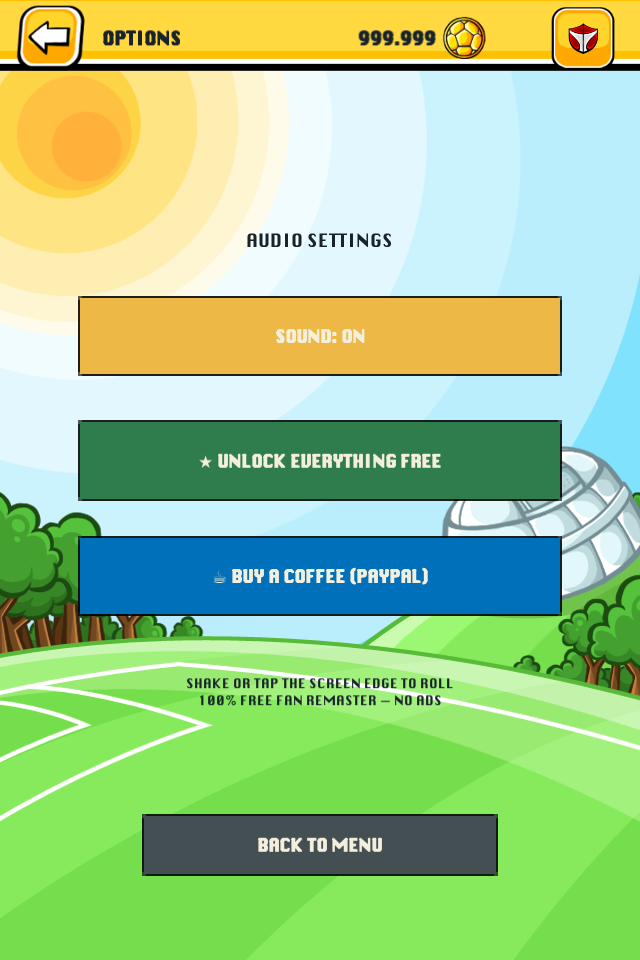
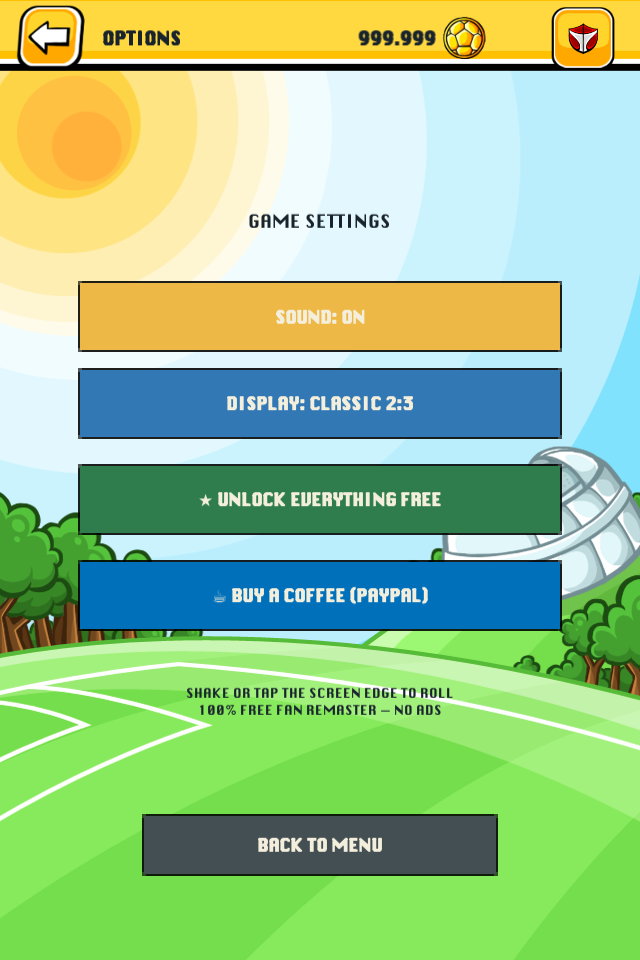
Fix PAIR animation bug, enlarge and center SHAKE prompt, calibrate player proportions and add full-screen display toggle

Changed region(s): [[0.125, 0.2188, 0.875, 0.6562], [0.2812, 0.6875, 0.7188, 0.75]]

diff --git a/Assets/Scripts/DiceSoccerBootstrap.cs b/Assets/Scripts/DiceSoccerBootstrap.cs
@@ -41,6 +41,8 @@ namespace DiceSoccer
         private GameObject[] _awayDieRoots;
         private Image[] _homePlayers;
         private Image[] _awayPlayers;
+        private float[] _homePlayerScales;
+        private float[] _awayPlayerScales;
         private Image _ballMarker;
         private Transform _field;
         private RectTransform _fieldPitchRoot;
@@ -158,9 +160,15 @@ namespace DiceSoccer
                 for (var i = 0; i < _homePlayers.Length; i++)
                 {
                     if (_homePlayers[i] != null && _homePlayers[i].gameObject.activeSelf)
-                        _homePlayers[i].rectTransform.localScale = new Vector3(-1f, bob, 1f); // Home faces right towards opponent
+                    {
+                        float baseScale = (_homePlayerScales != null && i < _homePlayerScales.Length) ? _homePlayerScales[i] : 1f;
+                        _homePlayers[i].rectTransform.localScale = new Vector3(-baseScale, baseScale * bob, 1f); // Home faces right towards opponent
+                    }
                     if (_awayPlayers[i] != null && _awayPlayers[i].gameObject.activeSelf)
-                        _awayPlayers[i].rectTransform.localScale = new Vector3(1f, bob, 1f); // Away faces left towards home
+                    {
+                        float baseScale = (_awayPlayerScales != null && i < _awayPlayerScales.Length) ? _awayPlayerScales[i] : 1f;
+                        _awayPlayers[i].rectTransform.localScale = new Vector3(baseScale, baseScale * bob, 1f); // Away faces left towards home
+                    }
                 }
             }
 
@@ -338,26 +346,39 @@ namespace DiceSoccer
             AddMenuBackdrop();
             AddMenuHeader("OPTIONS", ShowHome);
 
-            AddText("AUDIO SETTINGS", _safeArea, 18, Ink,
-                new Vector2(0.1f, 0.72f), new Vector2(0.9f, 0.78f));
+            AddText("GAME SETTINGS", _safeArea, 18, Ink,
+                new Vector2(0.1f, 0.74f), new Vector2(0.9f, 0.80f));
             AddButton(_soundEnabled ? "SOUND: ON" : "SOUND: OFF", _safeArea, Gold,
-                new Vector2(0.5f, 0.65f), new Vector2(0.75f, 0.08f), ToggleSound);
+                new Vector2(0.5f, 0.67f), new Vector2(0.75f, 0.07f), ToggleSound);
+
+            bool fullScreen = PlayerPrefs.GetInt("diceSoccer.fullscreen", 0) == 1;
+            AddButton(fullScreen ? "DISPLAY: FILL SCREEN" : "DISPLAY: CLASSIC 2:3", _safeArea, new Color32(50, 120, 180, 255),
+                new Vector2(0.5f, 0.58f), new Vector2(0.75f, 0.07f), ToggleDisplayMode);
 
             AddButton("★ UNLOCK EVERYTHING FREE", _safeArea, Grass,
-                new Vector2(0.5f, 0.52f), new Vector2(0.75f, 0.08f), () =>
+                new Vector2(0.5f, 0.48f), new Vector2(0.75f, 0.07f), () =>
                 {
                     UnlockAllContent(false);
                     ShowDonationModal();
                 });
 
             AddButton("☕ BUY A COFFEE (PAYPAL)", _safeArea, new Color32(0, 112, 186, 255),
-                new Vector2(0.5f, 0.40f), new Vector2(0.75f, 0.08f), ShowDonationModal);
+                new Vector2(0.5f, 0.38f), new Vector2(0.75f, 0.07f), ShowDonationModal);
 
             AddText("SHAKE OR TAP THE SCREEN EDGE TO ROLL\n100% FREE FAN REMASTER — NO ADS",
-                _safeArea, 13, Ink, new Vector2(0.08f, 0.22f), new Vector2(0.92f, 0.34f));
+                _safeArea, 13, Ink, new Vector2(0.08f, 0.22f), new Vector2(0.92f, 0.32f));
 
             AddButton("BACK TO MENU", _safeArea, new Color32(68, 79, 84, 255),
                 new Vector2(0.5f, 0.12f), new Vector2(0.55f, 0.06f), ShowHome);
+        }
+
+        private void ToggleDisplayMode()
+        {
+            int current = PlayerPrefs.GetInt("diceSoccer.fullscreen", 0);
+            PlayerPrefs.SetInt("diceSoccer.fullscreen", current == 1 ? 0 : 1);
+            PlayerPrefs.Save();
+            ApplySafeArea();
+            ShowOptions();
         }
 
         private void ToggleSound()
@@ -944,8 +965,12 @@ namespace DiceSoccer
             _fieldPitchRoot = pitchRootGo.GetComponent<RectTransform>();
             _fieldPitchRoot.anchorMin = new Vector2(0.5f, 0.5f);
             _fieldPitchRoot.anchorMax = new Vector2(0.5f, 0.5f);
-            _fieldPitchRoot.sizeDelta = new Vector2(1920f, 960f);
-            _fieldPitchRoot.anchoredPosition = new Vector2(GetPitchOffsetForLocation(_match.Location), 0f);
+            float fieldPitchHeight = 960f;
+            if (_safeArea != null && _safeArea.rect.height > 960f)
+                fieldPitchHeight = _safeArea.rect.height;
+            float pitchScale = fieldPitchHeight / 960f;
+            _fieldPitchRoot.sizeDelta = new Vector2(1920f * pitchScale, fieldPitchHeight);
+            _fieldPitchRoot.anchoredPosition = new Vector2(GetPitchOffsetForLocation(_match.Location) * pitchScale, 0f);
 
             // Left half of pitch (goal on left, center circle on right):
             var leftFieldGo = new GameObject("FieldLeft", typeof(RectTransform), typeof(Image));
@@ -953,7 +978,7 @@ namespace DiceSoccer
             var leftRect = leftFieldGo.GetComponent<RectTransform>();
             leftRect.anchorMin = leftRect.anchorMax = new Vector2(0.5f, 0.5f);
             leftRect.pivot = new Vector2(1f, 0.5f);
-            leftRect.sizeDelta = new Vector2(960f, 960f);
+            leftRect.sizeDelta = new Vector2(fieldPitchHeight, fieldPitchHeight);
             leftRect.anchoredPosition = Vector2.zero;
             var leftImg = leftFieldGo.GetComponent<Image>();
             leftImg.sprite = GetUiSprite("Original/sprites/Season0Field2(1.1)/Field");
@@ -966,7 +991,7 @@ namespace DiceSoccer
             var rightRect = rightFieldGo.GetComponent<RectTransform>();
             rightRect.anchorMin = rightRect.anchorMax = new Vector2(0.5f, 0.5f);
             rightRect.pivot = new Vector2(1f, 0.5f);
-            rightRect.sizeDelta = new Vector2(960f, 960f);
+            rightRect.sizeDelta = new Vector2(fieldPitchHeight, fieldPitchHeight);
             rightRect.anchoredPosition = Vector2.zero;
             rightRect.localScale = new Vector3(-1f, 1f, 1f);
             var rightImg = rightFieldGo.GetComponent<Image>();
@@ -1093,10 +1118,10 @@ namespace DiceSoccer
             _buffBeltText.fontStyle = FontStyle.Bold;
             _buffBeltGo.SetActive(false);
 
-            // Shake button & prompt above soccer ball:
+            // Shake button & prompt in field center circle:
             _shakePrompt = AddResourceImage("ShakePrompt", "Original/sprites/Prompt1/Shake",
-                _field, new Vector2(0.5f, 0.58f), new Vector2(0.5f, 0.58f));
-            _shakePrompt.rectTransform.sizeDelta = new Vector2(165f, 95f);
+                _field, new Vector2(0.5f, 0.40f), new Vector2(0.5f, 0.40f));
+            _shakePrompt.rectTransform.sizeDelta = new Vector2(360f, 295f);
             _shakePrompt.preserveAspect = true;
             _shakePrompt.raycastTarget = true;
             var shakeBtn = _shakePrompt.gameObject.AddComponent<Button>();
@@ -3315,7 +3340,7 @@ namespace DiceSoccer
             else if (hasPair && _homeDieRoots != null && _homeDieRoots[0] != null)
             {
                 Vector2 burstPos = _homeDieRoots[0].GetComponent<RectTransform>().anchorMin;
-                yield return StartCoroutine(PlayAbilityBurst(burstPos, "Original/sprites/BuffTrigger1/Trigger2", "Pair Boost"));
+                yield return StartCoroutine(PlayAbilityBurst(burstPos, "Original/sprites/BuffTrigger1/Trigger2", null));
                 yield return new WaitForSeconds(0.85f);
             }
             else
@@ -3544,68 +3569,81 @@ namespace DiceSoccer
             containerRect.anchoredPosition = new Vector2(0f, 30f);
             burstContainer.transform.SetAsLastSibling();
 
-            // 1. Ray burst background (TriggerBurst01..09)
-            var rayGo = new GameObject("RayBurst", typeof(RectTransform), typeof(Image));
-            rayGo.transform.SetParent(burstContainer.transform, false);
-            var rayRect = rayGo.GetComponent<RectTransform>();
-            rayRect.sizeDelta = new Vector2(220f, 220f);
-            rayRect.anchoredPosition = Vector2.zero;
-            var rayImg = rayGo.GetComponent<Image>();
-            rayImg.preserveAspect = true;
-            rayImg.raycastTarget = false;
-
-            // 2. Trigger badge (e.g. Trigger21 "3*" or Trigger2 "PAIR!")
-            var badgeGo = new GameObject("TriggerBadge", typeof(RectTransform), typeof(Image));
-            badgeGo.transform.SetParent(burstContainer.transform, false);
-            var badgeRect = badgeGo.GetComponent<RectTransform>();
-            badgeRect.sizeDelta = new Vector2(160f, 130f);
-            badgeRect.anchoredPosition = new Vector2(0f, 10f);
-            var badgeImg = badgeGo.GetComponent<Image>();
-            badgeImg.sprite = GetUiSprite(triggerBadgePath);
-            badgeImg.preserveAspect = true;
-            badgeImg.raycastTarget = false;
-
-            // 3. Ribbon banner (e.g. AbilityName-Critical Striker)
-            Image ribbonImg = null;
-            if (!string.IsNullOrEmpty(abilityName))
+            try
             {
-                var ribbonGo = new GameObject("AbilityRibbon", typeof(RectTransform), typeof(Image));
-                ribbonGo.transform.SetParent(burstContainer.transform, false);
-                var ribbonRect = ribbonGo.GetComponent<RectTransform>();
-                ribbonRect.sizeDelta = new Vector2(240f, 48f);
-                ribbonRect.anchoredPosition = new Vector2(0f, -45f);
-                ribbonImg = ribbonGo.GetComponent<Image>();
-                ribbonImg.sprite = GetUiSprite($"Original/sprites/BuffTrigger/AbilityName-{abilityName}");
-                ribbonImg.preserveAspect = true;
-                ribbonImg.raycastTarget = false;
-            }
+                // 1. Ray burst background (TriggerBurst01..09)
+                var rayGo = new GameObject("RayBurst", typeof(RectTransform), typeof(Image));
+                rayGo.transform.SetParent(burstContainer.transform, false);
+                var rayRect = rayGo.GetComponent<RectTransform>();
+                rayRect.sizeDelta = new Vector2(220f, 220f);
+                rayRect.anchoredPosition = Vector2.zero;
+                var rayImg = rayGo.GetComponent<Image>();
+                rayImg.preserveAspect = true;
+                rayImg.raycastTarget = false;
 
-            // Animate ray burst cycling + badge punch
-            float elapsed = 0f;
-            const float duration = 0.65f;
-            while (elapsed < duration)
-            {
-                elapsed += Time.deltaTime;
-                float t = Mathf.Clamp01(elapsed / duration);
+                // 2. Trigger badge (e.g. Trigger21 "3*" or Trigger2 "PAIR!")
+                var badgeGo = new GameObject("TriggerBadge", typeof(RectTransform), typeof(Image));
+                badgeGo.transform.SetParent(burstContainer.transform, false);
+                var badgeRect = badgeGo.GetComponent<RectTransform>();
+                badgeRect.sizeDelta = new Vector2(160f, 130f);
+                badgeRect.anchoredPosition = new Vector2(0f, 10f);
+                var badgeImg = badgeGo.GetComponent<Image>();
+                var badgeSprite = TryGetUiSprite(triggerBadgePath);
+                if (badgeSprite != null) badgeImg.sprite = badgeSprite;
+                badgeImg.preserveAspect = true;
+                badgeImg.raycastTarget = false;
 
-                // Ray burst animation frames (TriggerBurst01..09)
-                int burstFrame = Mathf.Clamp((int)(t * 9f) + 1, 1, 9);
-                rayImg.sprite = GetUiSprite($"Original/sprites/BuffTrigger/TriggerBurst{burstFrame:00}");
-
-                // Badge scale punch
-                float badgeScale = 1f + Mathf.Sin(t * Mathf.PI) * 0.28f;
-                badgeRect.localScale = new Vector3(badgeScale, badgeScale, 1f);
-
-                if (ribbonImg != null)
+                // 3. Ribbon banner (e.g. AbilityName-Critical Striker)
+                Image ribbonImg = null;
+                if (!string.IsNullOrEmpty(abilityName))
                 {
-                    float ribbonScale = Mathf.Clamp01(t * 3f);
-                    ribbonImg.rectTransform.localScale = new Vector3(ribbonScale, ribbonScale, 1f);
+                    var ribbonSprite = TryGetUiSprite($"Original/sprites/BuffTrigger/AbilityName-{abilityName}")
+                                    ?? TryGetUiSprite($"Original/sprites/BuffTrigger1/AbilityName-{abilityName}");
+                    if (ribbonSprite != null)
+                    {
+                        var ribbonGo = new GameObject("AbilityRibbon", typeof(RectTransform), typeof(Image));
+                        ribbonGo.transform.SetParent(burstContainer.transform, false);
+                        var ribbonRect = ribbonGo.GetComponent<RectTransform>();
+                        ribbonRect.sizeDelta = new Vector2(240f, 48f);
+                        ribbonRect.anchoredPosition = new Vector2(0f, -45f);
+                        ribbonImg = ribbonGo.GetComponent<Image>();
+                        ribbonImg.sprite = ribbonSprite;
+                        ribbonImg.preserveAspect = true;
+                        ribbonImg.raycastTarget = false;
+                    }
                 }
 
-                yield return null;
-            }
+                // Animate ray burst cycling + badge punch
+                float elapsed = 0f;
+                const float duration = 0.65f;
+                while (elapsed < duration)
+                {
+                    elapsed += Time.deltaTime;
+                    float t = Mathf.Clamp01(elapsed / duration);
 
-            Destroy(burstContainer);
+                    // Ray burst animation frames (TriggerBurst01..09)
+                    int burstFrame = Mathf.Clamp((int)(t * 9f) + 1, 1, 9);
+                    var bSprite = TryGetUiSprite($"Original/sprites/BuffTrigger/TriggerBurst{burstFrame:00}");
+                    if (bSprite != null) rayImg.sprite = bSprite;
+
+                    // Badge scale punch
+                    float badgeScale = 1f + Mathf.Sin(t * Mathf.PI) * 0.28f;
+                    badgeRect.localScale = new Vector3(badgeScale, badgeScale, 1f);
+
+                    if (ribbonImg != null)
+                    {
+                        float ribbonScale = Mathf.Clamp01(t * 3f);
+                        ribbonImg.rectTransform.localScale = new Vector3(ribbonScale, ribbonScale, 1f);
+                    }
+
+                    yield return null;
+                }
+            }
+            finally
+            {
+                if (burstContainer != null)
+                    Destroy(burstContainer);
+            }
         }
 
         private IEnumerator PlayGoalAnimation(bool homeScored)
@@ -4851,8 +4889,10 @@ namespace DiceSoccer
 
         private IEnumerator SmoothShiftFieldAndBall(int fromLoc, int toLoc, int possession)
         {
-            var startPitchX = GetPitchOffsetForLocation(fromLoc);
-            var targetPitchX = GetPitchOffsetForLocation(toLoc);
+            float pitchScale = (_fieldPitchRoot != null && _fieldPitchRoot.sizeDelta.y > 960f)
+                ? _fieldPitchRoot.sizeDelta.y / 960f : 1f;
+            var startPitchX = GetPitchOffsetForLocation(fromLoc) * pitchScale;
+            var targetPitchX = GetPitchOffsetForLocation(toLoc) * pitchScale;
             var startBallPos = _ballMarker != null ? _ballMarker.rectTransform.anchorMin : GetBallPosition(fromLoc, possession);
             var targetBallPos = GetBallPosition(toLoc, possession, _match != null ? _match.BallHolderSlotIndex : 1);
             var elapsed = 0f;
@@ -5049,7 +5089,7 @@ namespace DiceSoccer
                 _ => 0.395f
             };
 
-            float x = possession == 0 ? 0.435f : 0.565f;
+            float x = possession == 0 ? 0.365f : 0.645f;
             return new Vector2(x, y);
         }
 
@@ -5130,6 +5170,7 @@ namespace DiceSoccer
         private Image[] AddFormationPlayers(PlayerData[] lineup, Transform parent, bool home)
         {
             var players = new Image[lineup.Length];
+            var scales = new float[lineup.Length];
 
             for (var slot = 0; slot < lineup.Length; slot++)
             {
@@ -5150,6 +5191,7 @@ namespace DiceSoccer
 
                 // Calibrate visual height so junior squad members stand uniformly alongside adult figures
                 float vScale = GetPlayerFigureVisualScale(pId);
+                scales[slot] = vScale;
                 player.rectTransform.localScale = new Vector3((home ? -1f : 1f) * vScale, vScale, 1f);
 
                 // Add shadow under player feet (1:1 overlay with 200x340 sprite)
@@ -5168,6 +5210,9 @@ namespace DiceSoccer
 
                 players[slot] = player;
             }
+
+            if (home) _homePlayerScales = scales;
+            else _awayPlayerScales = scales;
 
             return players;
         }
@@ -5196,10 +5241,10 @@ namespace DiceSoccer
                 var p = _homePlayers[slot];
                 p.gameObject.SetActive(true);
                 float y = activeHome.Length == 1 ? 0.38f : ys[i];
-                float x = activeHome.Length == 1 ? (loc == 2 ? 0.38f : 0.42f) : 0.395f;
+                float x = activeHome.Length == 1 ? (loc == 2 ? 0.38f : 0.42f) : 0.31f;
                 p.rectTransform.anchorMin = p.rectTransform.anchorMax = new Vector2(x, y);
                 p.rectTransform.anchoredPosition = Vector2.zero;
-                float currentScale = Mathf.Abs(p.rectTransform.localScale.y);
+                float currentScale = (_homePlayerScales != null && slot < _homePlayerScales.Length) ? _homePlayerScales[slot] : 1f;
                 p.rectTransform.localScale = new Vector3(-currentScale, currentScale, 1f);
             }
 
@@ -5210,10 +5255,10 @@ namespace DiceSoccer
                 var p = _awayPlayers[slot];
                 p.gameObject.SetActive(true);
                 float y = activeAway.Length == 1 ? 0.38f : ys[i];
-                float x = activeAway.Length == 1 ? (loc == 2 ? 0.58f : 0.62f) : 0.605f;
+                float x = activeAway.Length == 1 ? (loc == 2 ? 0.58f : 0.62f) : 0.70f;
                 p.rectTransform.anchorMin = p.rectTransform.anchorMax = new Vector2(x, y);
                 p.rectTransform.anchoredPosition = Vector2.zero;
-                float currentScale = Mathf.Abs(p.rectTransform.localScale.y);
+                float currentScale = (_awayPlayerScales != null && slot < _awayPlayerScales.Length) ? _awayPlayerScales[slot] : 1f;
                 p.rectTransform.localScale = new Vector3(currentScale, currentScale, 1f);
             }
 
@@ -5296,6 +5341,8 @@ namespace DiceSoccer
             _awayTotalText = null;
             _homeDieRoots = null;
             _awayDieRoots = null;
+            _homePlayerScales = null;
+            _awayPlayerScales = null;
         }
 
         private void ApplySafeArea()
@@ -5307,25 +5354,36 @@ namespace DiceSoccer
             float screenW = Screen.width;
             float screenH = Screen.height;
 
-            // Strict 2:3 aspect ratio letterboxing
-            const float targetAspect = ReferenceWidth / ReferenceHeight; // 640 / 960 = 2/3 = 0.666667f
-            float currentAspect = screenW / screenH;
+            bool fullScreen = PlayerPrefs.GetInt("diceSoccer.fullscreen", 0) == 1;
 
-            if (currentAspect < targetAspect)
+            if (fullScreen)
             {
-                // Screen is taller than 2:3 (modern phones) -> top/bottom letterbox bars
-                float viewportHeightFraction = currentAspect / targetAspect;
-                float marginY = (1f - viewportHeightFraction) * 0.5f;
-                _safeArea.anchorMin = new Vector2(0f, marginY);
-                _safeArea.anchorMax = new Vector2(1f, 1f - marginY);
+                // Edge-to-edge safe area: fills the screen while respecting hardware notch and nav bar
+                _safeArea.anchorMin = new Vector2(area.xMin / screenW, area.yMin / screenH);
+                _safeArea.anchorMax = new Vector2(area.xMax / screenW, area.yMax / screenH);
             }
             else
             {
-                // Screen is wider than 2:3 (tablets) -> left/right pillarbox bars
-                float viewportWidthFraction = targetAspect / currentAspect;
-                float marginX = (1f - viewportWidthFraction) * 0.5f;
-                _safeArea.anchorMin = new Vector2(marginX, 0f);
-                _safeArea.anchorMax = new Vector2(1f - marginX, 1f);
+                // Strict authentic 2:3 aspect ratio letterboxing
+                const float targetAspect = ReferenceWidth / ReferenceHeight; // 640 / 960 = 2/3 = 0.666667f
+                float currentAspect = screenW / screenH;
+
+                if (currentAspect < targetAspect)
+                {
+                    // Screen is taller than 2:3 (modern phones) -> top/bottom letterbox bars
+                    float viewportHeightFraction = currentAspect / targetAspect;
+                    float marginY = (1f - viewportHeightFraction) * 0.5f;
+                    _safeArea.anchorMin = new Vector2(0f, marginY);
+                    _safeArea.anchorMax = new Vector2(1f, 1f - marginY);
+                }
+                else
+                {
+                    // Screen is wider than 2:3 (tablets) -> left/right pillarbox bars
+                    float viewportWidthFraction = targetAspect / currentAspect;
+                    float marginX = (1f - viewportWidthFraction) * 0.5f;
+                    _safeArea.anchorMin = new Vector2(marginX, 0f);
+                    _safeArea.anchorMax = new Vector2(1f - marginX, 1f);
+                }
             }
 
             _safeArea.offsetMin = Vector2.zero;
